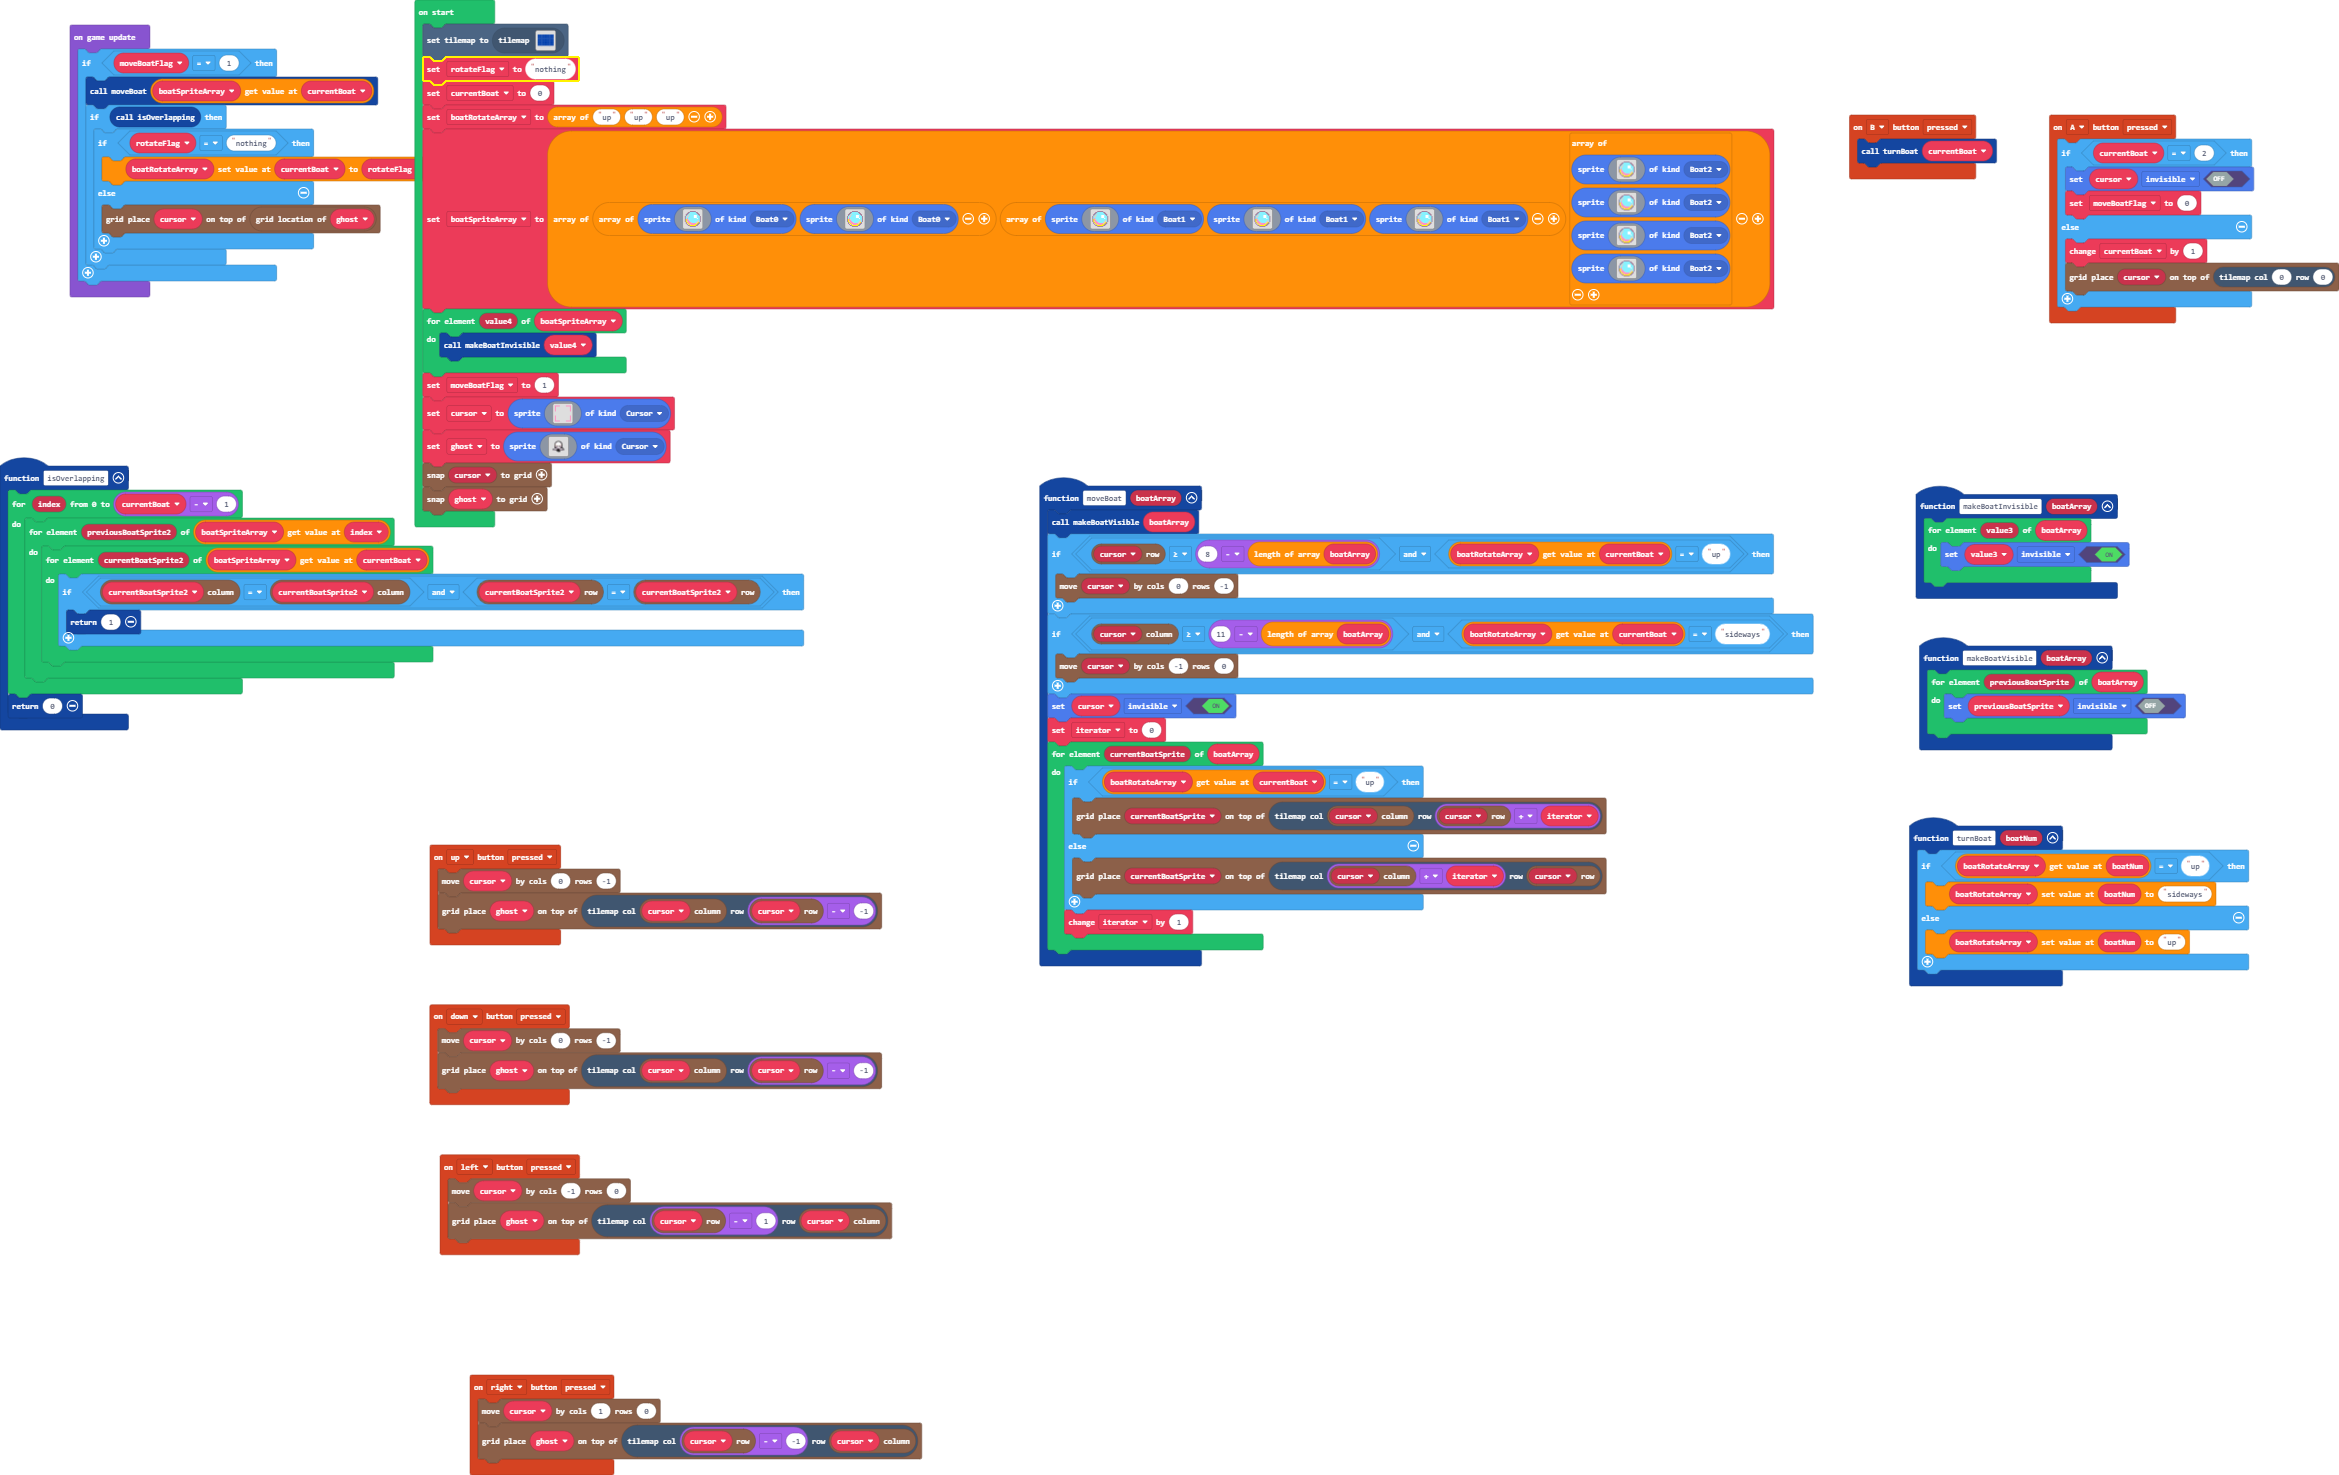
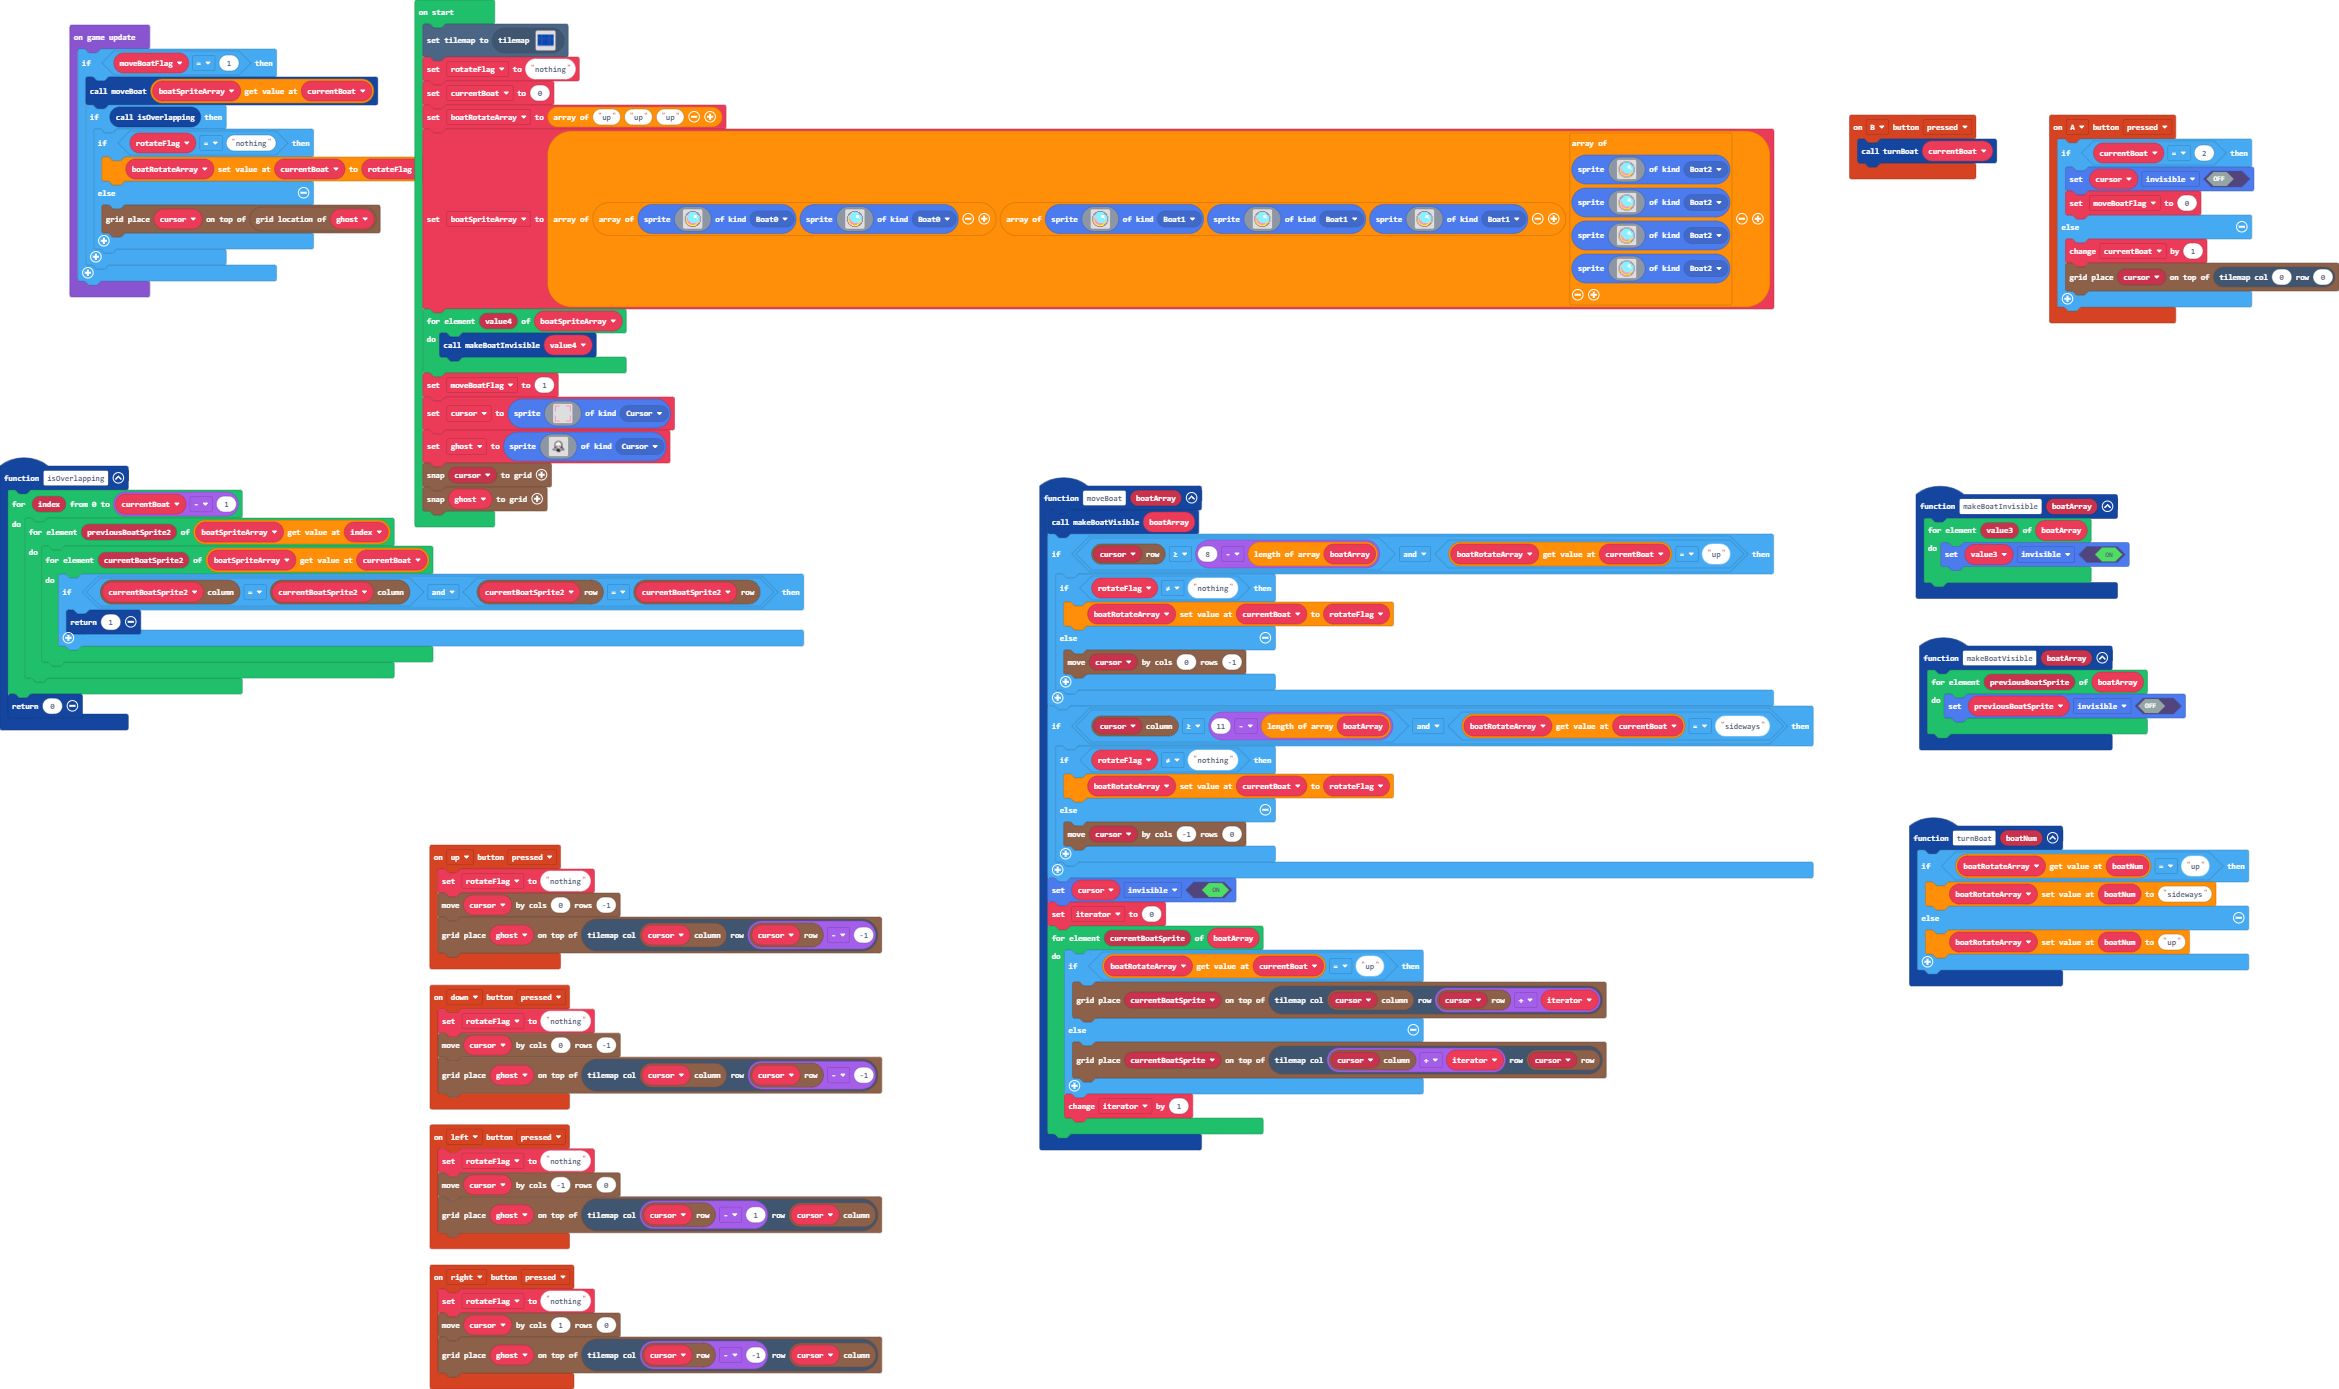
fixed rotate bug bottom screen

diff --git a/main.ts b/main.ts
@@ -5,6 +5,7 @@ namespace SpriteKind {
     export const Boat2 = SpriteKind.create()
 }
 controller.up.onEvent(ControllerButtonEvent.Pressed, function () {
+    rotateFlag = "nothing"
     grid.move(cursor, 0, -1)
     grid.place(ghost, tiles.getTileLocation(grid.spriteCol(cursor), grid.spriteRow(cursor) - -1))
 })
@@ -26,20 +27,30 @@ controller.A.onEvent(ControllerButtonEvent.Pressed, function () {
     }
 })
 controller.left.onEvent(ControllerButtonEvent.Pressed, function () {
+    rotateFlag = "nothing"
     grid.move(cursor, -1, 0)
     grid.place(ghost, tiles.getTileLocation(grid.spriteRow(cursor) - 1, grid.spriteCol(cursor)))
 })
 controller.right.onEvent(ControllerButtonEvent.Pressed, function () {
+    rotateFlag = "nothing"
     grid.move(cursor, 1, 0)
     grid.place(ghost, tiles.getTileLocation(grid.spriteRow(cursor) - -1, grid.spriteCol(cursor)))
 })
 function moveBoat (boatArray: any[]) {
     makeBoatVisible(boatArray)
     if (grid.spriteRow(cursor) >= 8 - boatArray.length && boatRotateArray[currentBoat] == "up") {
-        grid.move(cursor, 0, -1)
+        if (rotateFlag != "nothing") {
+            boatRotateArray[currentBoat] = rotateFlag
+        } else {
+            grid.move(cursor, 0, -1)
+        }
     }
     if (grid.spriteCol(cursor) >= 11 - boatArray.length && boatRotateArray[currentBoat] == "sideways") {
-        grid.move(cursor, -1, 0)
+        if (rotateFlag != "nothing") {
+            boatRotateArray[currentBoat] = rotateFlag
+        } else {
+            grid.move(cursor, -1, 0)
+        }
     }
     cursor.setFlag(SpriteFlag.Invisible, true)
     iterator = 0
@@ -53,6 +64,7 @@ function moveBoat (boatArray: any[]) {
     }
 }
 controller.down.onEvent(ControllerButtonEvent.Pressed, function () {
+    rotateFlag = "nothing"
     grid.move(cursor, 0, -1)
     grid.place(ghost, tiles.getTileLocation(grid.spriteCol(cursor), grid.spriteRow(cursor) - -1))
 })
@@ -87,8 +99,9 @@ let moveBoatFlag = 0
 let boatSpriteArray: Sprite[][] = []
 let boatRotateArray: string[] = []
 let currentBoat = 0
+let rotateFlag = ""
 tiles.setCurrentTilemap(tilemap`level1`)
-let rotateFlag = "nothing"
+rotateFlag = "nothing"
 currentBoat = 0
 boatRotateArray = ["up", "up", "up"]
 boatSpriteArray = [[sprites.create(img`
